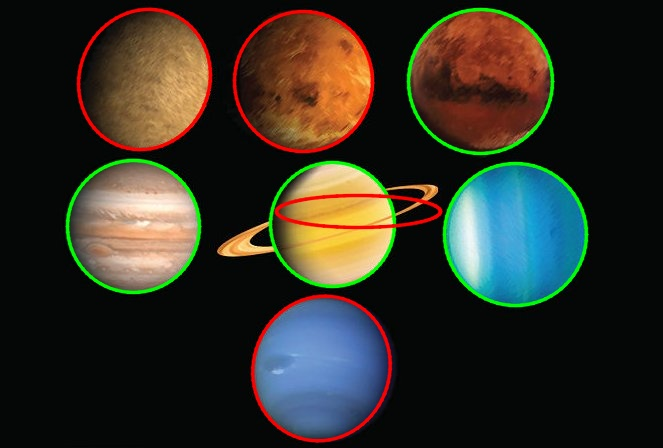
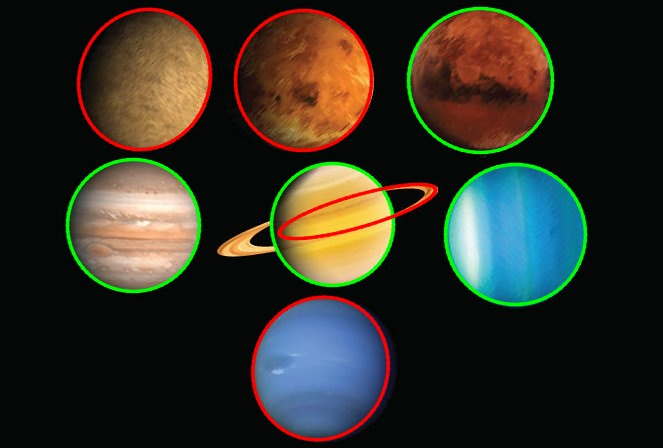
Fixing drawing of rotated ellipses

diff --git a/chapter03/edge_drawing_ellipses.py b/chapter03/edge_drawing_ellipses.py
@@ -30,16 +30,17 @@ for segment in segments:
 
 # Draw the detected circles and ellipses.
 if ellipses is not None:
-    ellipses = np.uint16(np.around(ellipses))
     for ellipse in ellipses:
+        center = (int(ellipse[0][0]), int(ellipse[0][1]))
+        axes = (int(ellipse[0][2] + ellipse[0][3]),
+                int(ellipse[0][2] + ellipse[0][4]))
+        angle = ellipse[0][5]
         if ellipse[0][2] == 0:  # Ellipse
             color = (0, 0, 255)
         else:  # Circle
             color = (0, 255, 0)
-        cv2.ellipse(
-            ellipses_viz, (ellipse[0][0], ellipse[0][1]),
-            (ellipse[0][2]+ellipse[0][3], ellipse[0][2]+ellipse[0][4]),
-            ellipse[0][5], 0, 360, color, 2, cv2.LINE_AA)
+        cv2.ellipse(ellipses_viz, center, axes, angle, 0, 360,
+                    color, 2, cv2.LINE_AA)
 
 cv2.imwrite("planets_edge_drawing_segments.jpg", segments_viz)
 cv2.imwrite("planets_edge_drawing_ellipses.jpg", ellipses_viz)
